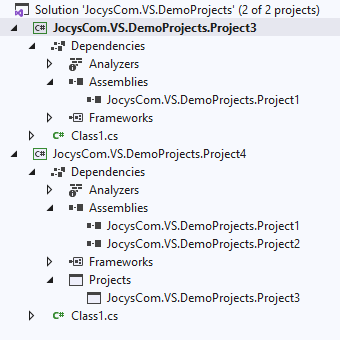
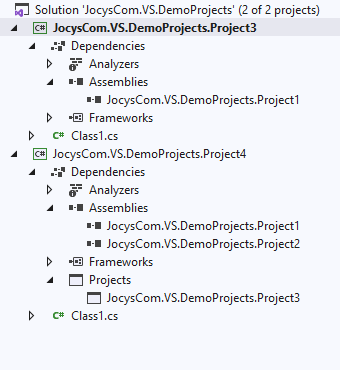
Update image

diff --git a/README.md b/README.md
@@ -16,7 +16,7 @@ Before: Projects reference \*.dll assemblies:
 
 After: Projects reference original Projects, which are also included under "References" solution folder:
 
-&nbsp;&nbsp;&nbsp;&nbsp;<img alt="Solution From" src="ReferenceManager/Documents/Images/Solution_From.png" width="340" height="340"> ► <img alt="Solution To" src="ReferenceManager/Documents/Images/Solution_To.png" width="340" height="370">
+&nbsp;&nbsp;&nbsp;&nbsp;<img alt="Solution From" src="ReferenceManager/Documents/Images/Solution_From.png" width="340" height="370"> ► <img alt="Solution To" src="ReferenceManager/Documents/Images/Solution_To.png" width="340" height="370">
 
 ## Screenshots
 
